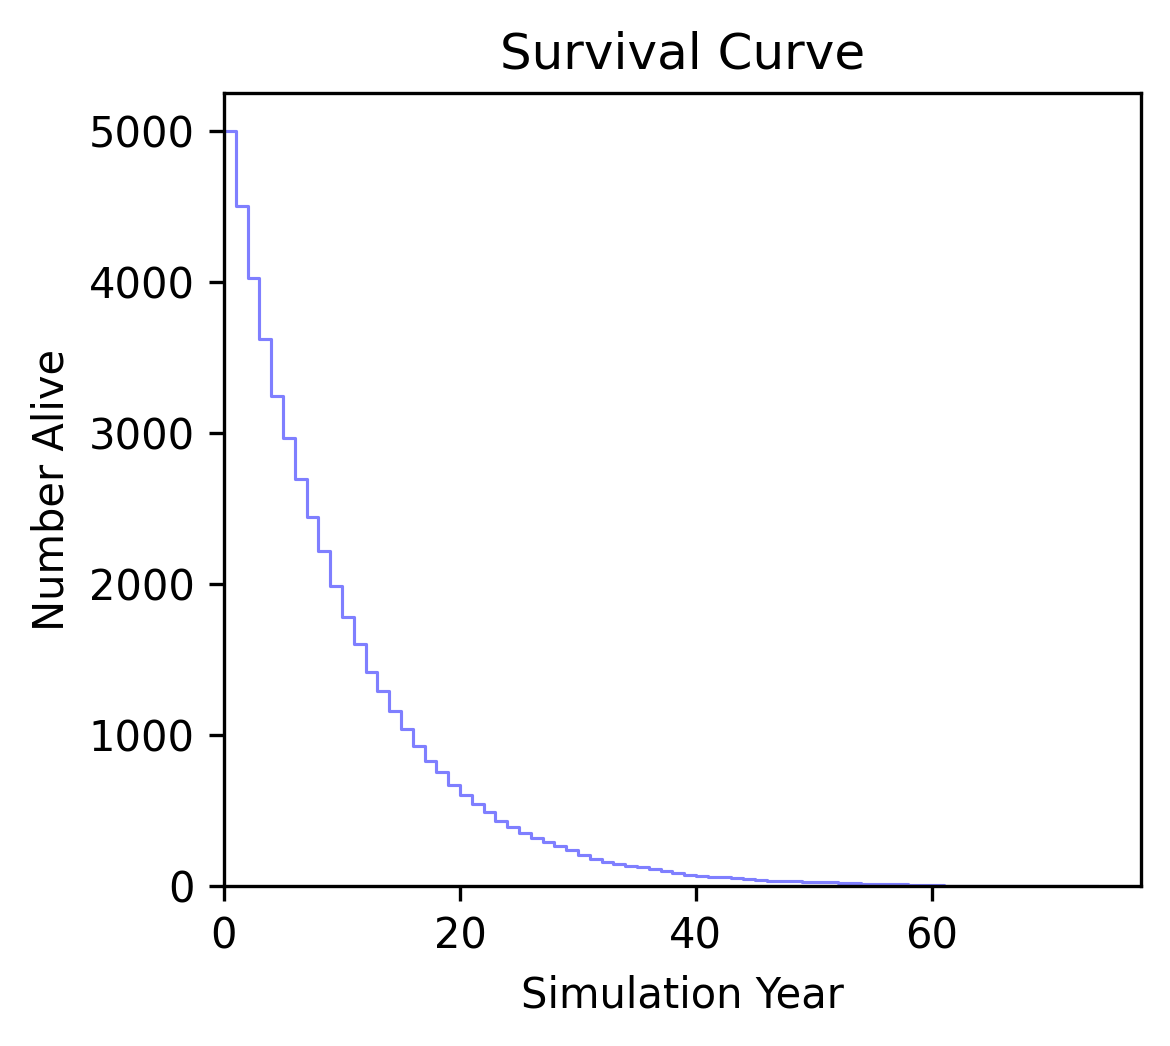
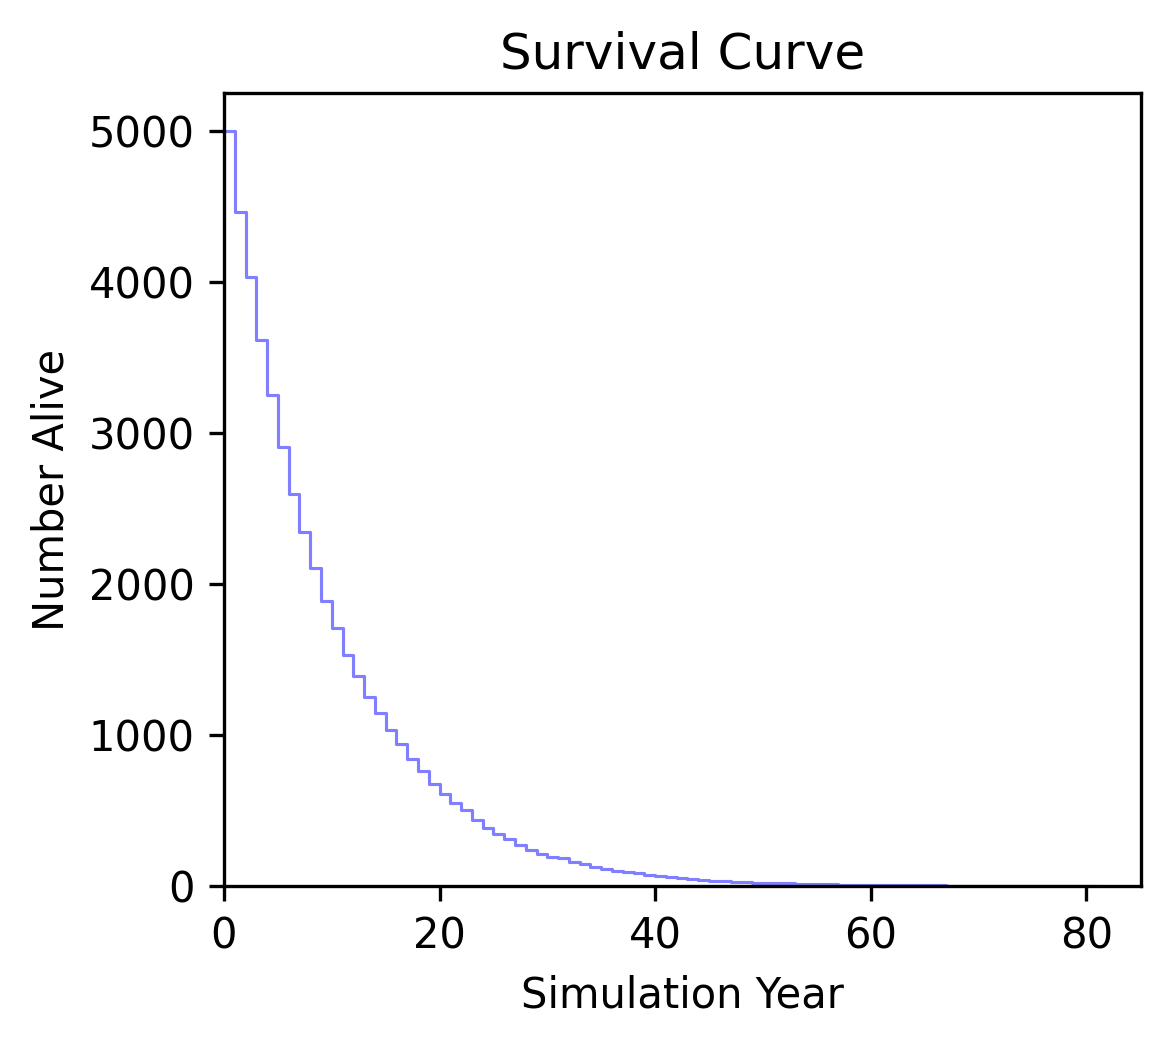
simulate calibrated added

diff --git a/SurvivalModelClasses.py b/SurvivalModelClasses.py
@@ -1,6 +1,7 @@
 from enum import Enum
 
-import numpy as np
+from numpy import iinfo, int32
+from numpy.random import RandomState
 
 from deampy.sample_path import PrevalencePathBatchUpdate
 
@@ -22,11 +23,11 @@ class Patient:
         self.healthState = HealthState.ALIVE  # assuming all patients are alive at the beginning
         self.survivalTime = None  # won't be observed unless the patient dies
 
-    def simulate(self, n_time_steps):
+    def simulate(self, n_time_steps, seed):
         """ simulate the patient over the specified simulation length """
 
         # random number generator
-        rng = np.random.RandomState(seed=self.id)
+        rng = RandomState(seed=seed)
 
         k = 1  # current simulation year
 
@@ -55,10 +56,13 @@ class Cohort:
         self.mortalityProb = mortality_prob
         self.cohortOutcomes = CohortOutcomes()  # outcomes of the simulated cohort
 
-    def simulate(self, n_time_steps):
+    def simulate(self, n_time_steps, seed):
         """ simulate the cohort of patients over the specified number of time-steps
         :param n_time_steps: number of time steps to simulate the cohort
         """
+
+        # set the random seed
+        rng = RandomState(seed=seed)
 
         # populate and simulate the cohort
         for i in range(self.popSize):
@@ -66,7 +70,9 @@ class Cohort:
             patient = Patient(id=self.id * self.popSize + i, mortality_prob=self.mortalityProb)
 
             # simulate
-            patient.simulate(n_time_steps)
+            patient.simulate(
+                n_time_steps=n_time_steps,
+                seed=rng.randint(0, iinfo(int32).max))  # use a random seed for each patient
 
             # store outputs of this simulation
             self.cohortOutcomes.extract_outcome(patient)

diff --git a/RunSurvivalModel.py b/RunSurvivalModel.py
@@ -11,7 +11,7 @@ POP_SIZE = 5000
 myCohort = Cohort(id=1, pop_size=POP_SIZE, mortality_prob=MORTALITY_PROB)
 
 # simulate the cohort over the specified time steps
-myCohort.simulate(n_time_steps=TIME_STEPS)
+myCohort.simulate(n_time_steps=TIME_STEPS, seed=1)
 
 # plot the sample path
 path.plot_sample_path(
